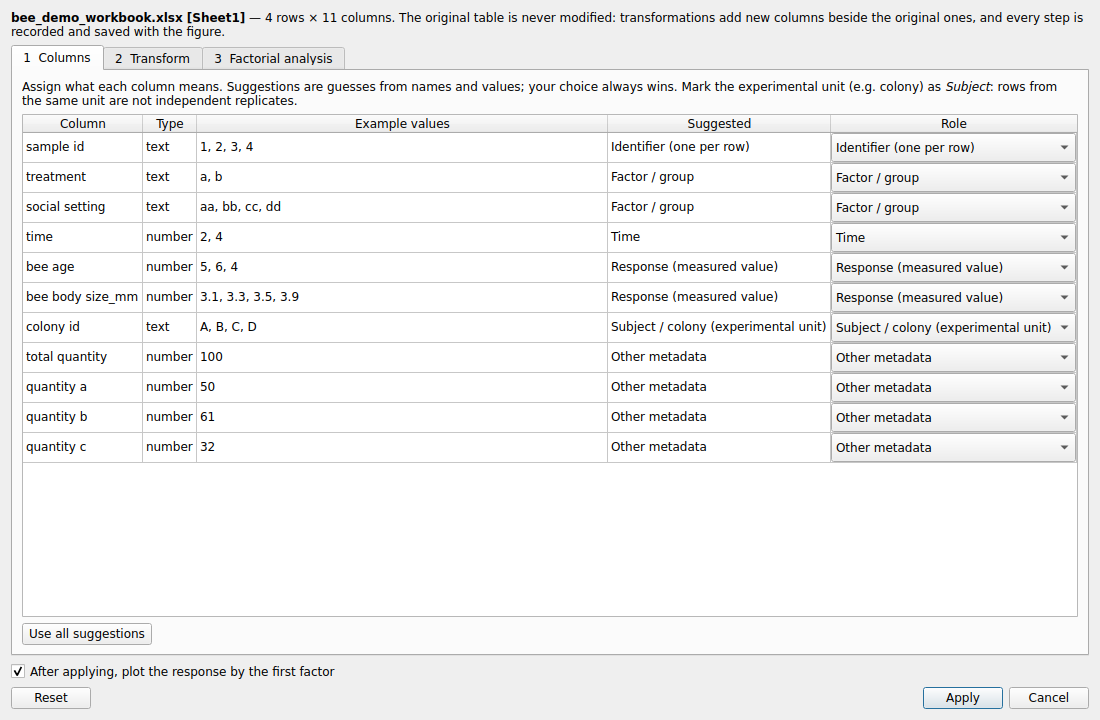
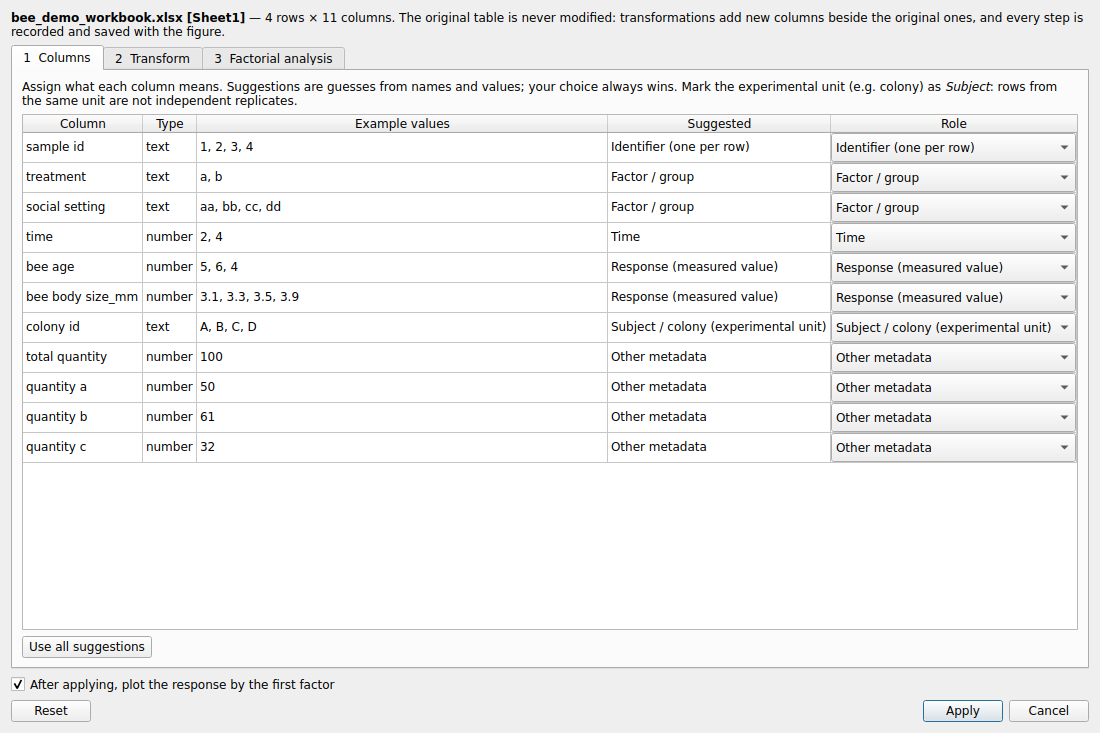
Show the model coefficient table beside the factorial ANOVA
R's summary(lm(...)) under sum-to-zero coding - estimate, SE, t, P, 95 %
CI, residual df - for the same model the ANOVA table reports. Desktop:
Prepare table > Factorial analysis > Coefficients tab with its own CSV
export; browser: under the ANOVA table with a download.

Coefficients get readable names ("treatment = control", "bee body
size_mm (slope)", "treatment = control x time (day) = 2") and a tooltip
saying what each means; the last level of each factor has no row (minus
the sum of the others), which the table states. model_coefficients now
also runs the subject/independence check, like factorial_anova.

The readable names map one-to-one onto R's contr.sum coefficients
(treatment1, ...): estimates agree within 1e-9 relative on all 13
estimable validation designs (test_readable_coefficient_labels_name_the_
same_coefficients_as_r). Non-estimable designs leave the table empty.
Dialog layout: covariate list no longer collapses; CI split into two
columns.

diff --git a/apps/desktop_app/table_workflow.py b/apps/desktop_app/table_workflow.py
@@ -46,7 +46,7 @@ from PySide6.QtWidgets import (
     QWidget,
 )
 
-from make_my_figure_core.statistics.factorial import check_design, factorial_anova
+from make_my_figure_core.statistics.factorial import check_design, factorial_anova, model_coefficients
 from make_my_figure_core.statistics.models import StatsError
 from make_my_figure_core.tabular import (
     METHODS,
@@ -72,7 +72,7 @@ class TableWorkflowDialog(QDialog):
     def __init__(self, controller, data, parent=None):
         super().__init__(parent)
         self.setWindowTitle("Prepare table — roles, transformations, factorial analysis")
-        self.resize(980, 720)
+        self.resize(1040, 820)
         self.controller = controller
         self.raw = controller.raw_of(data)
         self.rawdf: pd.DataFrame = self.raw.info.dataframe
@@ -322,7 +322,8 @@ class TableWorkflowDialog(QDialog):
         self.an_response = QComboBox()
         self.an_factors = [QComboBox() for _ in range(3)]
         self.an_covariates = QListWidget()
-        self.an_covariates.setMaximumHeight(90)
+        self.an_covariates.setMinimumHeight(64)
+        self.an_covariates.setMaximumHeight(96)
         self.an_subject = QComboBox()
         self.an_inter = QComboBox()
         self.an_inter.addItem("Full factorial (all interactions)", "full")
@@ -341,12 +342,15 @@ class TableWorkflowDialog(QDialog):
         row = QHBoxLayout()
         self.btn_check = QPushButton("Check design")
         self.btn_run = QPushButton("Run ANOVA")
-        self.btn_export_anova = QPushButton("Export results (CSV)…")
+        self.btn_export_anova = QPushButton("Export ANOVA table (CSV)…")
         self.btn_export_anova.setEnabled(False)
+        self.btn_export_coef = QPushButton("Export coefficients (CSV)…")
+        self.btn_export_coef.setEnabled(False)
+        self.btn_export_coef.clicked.connect(self._export_coefficients)
         self.btn_check.clicked.connect(self._check)
         self.btn_run.clicked.connect(self._run)
         self.btn_export_anova.clicked.connect(self._export_anova)
-        for b in (self.btn_check, self.btn_run, self.btn_export_anova):
+        for b in (self.btn_check, self.btn_run, self.btn_export_anova, self.btn_export_coef):
             row.addWidget(b)
         row.addStretch(1)
         lay.addLayout(row)
@@ -359,7 +363,29 @@ class TableWorkflowDialog(QDialog):
                                                  "Residual df"])
         self.an_table.setEditTriggers(QAbstractItemView.NoEditTriggers)
         self.an_table.horizontalHeader().setSectionResizeMode(QHeaderView.Stretch)
-        lay.addWidget(self.an_table, 2)
+        # Coefficients: R's summary(lm) under contr.sum, validated against R.
+        coef_page = QWidget()
+        cl = QVBoxLayout(coef_page)
+        cl.setContentsMargins(0, 0, 0, 0)
+        self.coef_note = QLabel(
+            "Sum-to-zero coding: each level's coefficient is its deviation from the mean of all "
+            "levels; the last level of each factor has no row (it is minus the sum of the others). "
+            "A covariate's coefficient is its slope. 95 % confidence intervals.")
+        self.coef_note.setWordWrap(True)
+        self.coef_note.setStyleSheet("color:#555;")
+        cl.addWidget(self.coef_note)
+        self.coef_table = QTableWidget(0, 8)
+        self.coef_table.setHorizontalHeaderLabels(["Coefficient", "Estimate", "Std. error", "t", "P",
+                                                   "95 % CI low", "95 % CI high", "Residual df"])
+        self.coef_table.setEditTriggers(QAbstractItemView.NoEditTriggers)
+        self.coef_table.horizontalHeader().setSectionResizeMode(QHeaderView.Stretch)
+        self.coef_table.horizontalHeader().setSectionResizeMode(0, QHeaderView.ResizeToContents)
+        cl.addWidget(self.coef_table, 1)
+        self.result_tabs = QTabWidget()
+        self.result_tabs.addTab(self.an_table, "ANOVA table")
+        self.result_tabs.addTab(coef_page, "Coefficients")
+        lay.addWidget(self.result_tabs, 2)
+        self.coef_df = None
         self._fill_analysis_from_roles()
         return w
 
@@ -448,7 +474,10 @@ class TableWorkflowDialog(QDialog):
     def _run(self):
         rep = self._check()
         self.an_table.setRowCount(0)
+        self.coef_table.setRowCount(0)
         self.btn_export_anova.setEnabled(False)
+        self.btn_export_coef.setEnabled(False)
+        self.coef_df = None
         if not rep.estimable:
             return
         a = self._design_args()
@@ -472,6 +501,24 @@ class TableWorkflowDialog(QDialog):
         self.an_report.appendPlainText(f"\n{res[0].test_name} on {res[0].n_total} observations. "
                                        "Partial η² = SS_term / (SS_term + SS_residual).")
         self.btn_export_anova.setEnabled(True)
+        try:
+            coef = model_coefficients(self._analysis_frame(), a["response"], a["factors"],
+                                      covariates=a["covariates"], subject=a["subject"],
+                                      interactions=a["interactions"])
+        except StatsError as exc:
+            self.an_report.appendPlainText(f"\nCoefficients not available: {exc}")
+            return
+        self.coef_df = coef.assign(model=res[0].extra["formula"], n=res[0].n_total)
+        self.coef_table.setRowCount(len(coef))
+        for i, r in coef.iterrows():
+            vals = [r["label"], f"{r['estimate']:.6g}", f"{r['std_error']:.4g}", f"{r['t']:.4g}",
+                    f"{r['p_value']:.3g}", f"{r['ci_low']:.4g}", f"{r['ci_high']:.4g}", f"{r['residual_df']:g}"]
+            for j, v in enumerate(vals):
+                item = QTableWidgetItem(v)
+                if j == 0:
+                    item.setToolTip(r["meaning"])
+                self.coef_table.setItem(i, j, item)
+        self.btn_export_coef.setEnabled(True)
 
     def _export_anova(self):
         if self.anova_table is None:
@@ -479,6 +526,13 @@ class TableWorkflowDialog(QDialog):
         path, _ = QFileDialog.getSaveFileName(self, "Export ANOVA table", "anova.csv", "CSV (*.csv)")
         if path:
             self.anova_table.to_csv(path, index=False)
+
+    def _export_coefficients(self):
+        if self.coef_df is None:
+            return
+        path, _ = QFileDialog.getSaveFileName(self, "Export coefficients", "coefficients.csv", "CSV (*.csv)")
+        if path:
+            self.coef_df.to_csv(path, index=False)
 
     # ------------------------------------------------------------- dialog
     def _on_tab(self, index):

diff --git a/make_my_figure_core/statistics/factorial.py b/make_my_figure_core/statistics/factorial.py
@@ -27,7 +27,7 @@ from __future__ import annotations
 
 import itertools
 from dataclasses import asdict, dataclass, field
-from typing import Any, Dict, List, Optional, Sequence
+from typing import Any, Dict, List, Optional, Sequence, Tuple
 
 import numpy as np
 import pandas as pd
@@ -322,18 +322,52 @@ def factorial_anova(df: pd.DataFrame, response: str, factors: Sequence[str], *,
     return results
 
 
+def _coefficient_label(term: str, fmap: Dict[str, str], cmap: Dict[str, str]) -> Tuple[str, str]:
+    """``("treatment = control × time = 2", meaning)`` for a patsy term name."""
+    if term == "Intercept":
+        return "Intercept", ("mean of the cell means (factors); with covariates, at covariate = 0"
+                             if cmap else "mean of the cell means")
+    inv = {v: k for k, v in {**fmap, **cmap}.items()}
+    parts, is_covariate = [], False
+    for piece in term.split(":"):
+        if piece.startswith("C("):
+            inner = piece[2:].split(",")[0].strip()
+            level = piece.split("[S.", 1)[1].rstrip("]") if "[S." in piece else "?"
+            parts.append(f"{inv.get(inner, inner)} = {level}")
+        else:
+            parts.append(inv.get(piece, piece))
+            is_covariate = True
+    label = " × ".join(parts)
+    if is_covariate and len(parts) == 1:
+        return f"{label} (slope)", "change in the response per unit of the covariate"
+    if len(parts) == 1:
+        return label, "deviation of this level from the mean of all levels (sum-to-zero)"
+    return label, "interaction deviation for this combination of levels (sum-to-zero)"
+
+
 def model_coefficients(df: pd.DataFrame, response: str, factors: Sequence[str], *,
-                       covariates: Sequence[str] = (), interactions: str = "full",
-                       alpha: float = 0.05) -> pd.DataFrame:
-    """Coefficient table of the sum-to-zero OLS fit (estimate, SE, t, P, CI)."""
-    rep = check_design(df, response, factors, covariates=covariates, interactions=interactions)
+                       covariates: Sequence[str] = (), subject: Optional[str] = None,
+                       interactions: str = "full", alpha: float = 0.05) -> pd.DataFrame:
+    """Coefficient table of the sum-to-zero OLS fit - R's ``summary(lm)`` under ``contr.sum``.
+
+    Columns: ``label`` (readable, e.g. ``treatment = control``), ``estimate``,
+    ``std_error``, ``t``, ``p_value``, ``ci_low``/``ci_high`` (``1 - alpha``),
+    ``residual_df``, ``meaning`` and ``term`` (the model's own name). With
+    sum-to-zero coding each factor's last level has no row: its deviation is minus
+    the sum of the others. Refuses, like :func:`factorial_anova`, a design that is
+    not estimable.
+    """
+    rep = check_design(df, response, factors, covariates=covariates, subject=subject,
+                       interactions=interactions)
     if not rep.estimable:
         raise StatsError(rep.explanation())
-    work = _prepare(df, response, list(factors), list(covariates), None, DesignReport(
-        response, list(factors), list(covariates), None, interactions))
+    work = _prepare(df, response, list(factors), list(covariates), subject, DesignReport(
+        response, list(factors), list(covariates), subject, interactions))
     model, fmap, cmap, _ = _fit(work, response, list(factors), list(covariates), interactions)
     ci = model.conf_int(alpha)
-    return pd.DataFrame({"term": model.params.index, "estimate": model.params.values,
+    labels = [_coefficient_label(str(t), fmap, cmap) for t in model.params.index]
+    return pd.DataFrame({"label": [lab for lab, _ in labels], "estimate": model.params.values,
                          "std_error": model.bse.values, "t": model.tvalues.values,
                          "p_value": model.pvalues.values, "ci_low": ci[0].values,
-                         "ci_high": ci[1].values})
+                         "ci_high": ci[1].values, "residual_df": float(model.df_resid),
+                         "meaning": [m for _, m in labels], "term": model.params.index})

diff --git a/tests/test_table_workflow_end_to_end.py b/tests/test_table_workflow_end_to_end.py
@@ -22,6 +22,7 @@ import pytest
 matplotlib.use("Agg")
 os.environ.setdefault("QT_QPA_PLATFORM", "offscreen")
 try:
+    from PySide6.QtCore import Qt
     from PySide6.QtWidgets import QApplication, QDialog
 
     from apps.desktop_app import table_workflow
@@ -264,5 +265,35 @@ def test_every_invalid_row_in_the_preview_is_marked(app, tmp_path):
     dlg.tf_method.setCurrentIndex(dlg.tf_method.findData("log10"))
     marked = sum(1 for i in range(dlg.preview_table.rowCount()) if dlg.preview_table.item(i, 1).text() == "invalid")
     assert marked == 30          # rows past the 20th used to show "—"
+    dlg.close()
+    win.close()
+
+
+def test_coefficient_table_in_the_dialog(app):
+    from make_my_figure_core.statistics.factorial import model_coefficients
+
+    sim = ROOT / "tutorial" / "general_tabular_data" / "data" / "simulated_bee_factorial.csv"
+    win = MainWindow()
+    win.load_path(str(sim))
+    dlg = table_workflow.TableWorkflowDialog(win.controller, win.data, win)
+    dlg.an_response.setCurrentText("quantity per bee")
+    for i, f in enumerate(("treatment", "time (day)", "(none)")):
+        dlg.an_factors[i].setCurrentText(f)
+    for i in range(dlg.an_covariates.count()):
+        it = dlg.an_covariates.item(i)
+        it.setCheckState(Qt.Checked if it.text() == "bee body size_mm" else Qt.Unchecked)
+    dlg.an_subject.setCurrentText("colony id")
+    dlg._run()
+    ref = model_coefficients(pd.read_csv(sim), "quantity per bee", ["treatment", "time (day)"],
+                             covariates=["bee body size_mm"], subject="colony id")
+    assert dlg.coef_table.rowCount() == len(ref) == 5
+    assert [dlg.coef_table.item(i, 0).text() for i in range(5)] == ref["label"].tolist()
+    assert dlg.coef_table.item(4, 0).text() == "bee body size_mm (slope)"
+    assert float(dlg.coef_table.item(1, 1).text()) == pytest.approx(ref["estimate"][1], rel=1e-5)
+    assert dlg.btn_export_coef.isEnabled() and dlg.coef_df is not None
+    # a design that cannot be estimated leaves the table empty
+    dlg.an_factors[1].setCurrentText("colony id")
+    dlg._run()
+    assert dlg.coef_table.rowCount() == 0 and not dlg.btn_export_coef.isEnabled()
     dlg.close()
     win.close()

diff --git a/apps/streamlit_app/table_tools.py b/apps/streamlit_app/table_tools.py
@@ -15,7 +15,7 @@ import pandas as pd
 import streamlit as st
 
 from make_my_figure_core.io.loaders import table_info_from_dataframe
-from make_my_figure_core.statistics.factorial import check_design, factorial_anova
+from make_my_figure_core.statistics.factorial import check_design, factorial_anova, model_coefficients
 from make_my_figure_core.statistics.models import StatsError
 from make_my_figure_core.tabular import (
     METHODS,
@@ -138,10 +138,19 @@ def render_table_tools(table_info, table_name: str) -> Tuple[Any, str, Optional[
                     try:
                         res = factorial_anova(frame, response, factors, covariates=covs, subject=subj,
                                               interactions=inter, ss_type=int(ss))
+                        st.markdown("**ANOVA table**")
                         st.dataframe(pd.DataFrame([{
                             "term": r.group_a, "df": r.df, "sum_sq": r.extra["sum_sq"], "F": r.statistic,
                             "P": r.p_value, "partial eta²": r.effect_size, "residual df": r.df2}
                             for r in res]), use_container_width=True)
+                        coef = model_coefficients(frame, response, factors, covariates=covs, subject=subj,
+                                                  interactions=inter)
+                        st.markdown("**Coefficients** (sum-to-zero coding: each level's deviation from the "
+                                    "mean of all levels; a factor's last level is minus the sum of the others; "
+                                    "covariates are slopes; 95 % CI)")
+                        st.dataframe(coef.drop(columns=["term"]), use_container_width=True)
+                        st.download_button("Download coefficients (CSV)", coef.to_csv(index=False).encode("utf-8"),
+                                           file_name="coefficients.csv", mime="text/csv")
                     except StatsError as exc:
                         st.error(str(exc))
     return table_info, table_name, record, raw

diff --git a/tests/test_factorial_anova_matches_r.py b/tests/test_factorial_anova_matches_r.py
@@ -157,3 +157,31 @@ def test_two_way_anova_refuses_the_confounded_bee_design():
     bee = pd.read_excel(FX.parent / "bee_demo_workbook.xlsx")
     with pytest.raises(StatsError, match="completely confounded"):
         anova.two_way_anova(bee, "bee body size_mm", "treatment", "time")
+
+
+@pytest.mark.parametrize("case_id", ESTIMABLE)
+def test_readable_coefficient_labels_name_the_same_coefficients_as_r(case_id):
+    # "treatment = control" must be R's "treatment1" (level 1 of contr.sum), and so on.
+    row, df = _case(case_id)
+    factors, covs = _split(row.factors), _split(row.covariates)
+    ours = model_coefficients(df, row.response, factors, covariates=covs, interactions=row.interactions)
+    used = df.dropna(subset=[row.response, *factors, *covs])
+    levels = {f: sorted(used[f].astype(str).unique()) for f in factors}
+    ref = R_COEF[R_COEF.case_id == case_id].set_index("r_name")
+
+    def to_r(label):
+        if label == "Intercept":
+            return "(Intercept)"
+        out = []
+        for part in label.replace(" (slope)", "").split(" × "):
+            if " = " in part:
+                f, lev = part.split(" = ", 1)
+                out.append(f"{f}{levels[f].index(lev) + 1}")
+            else:
+                out.append(part)
+        return ":".join(out)
+
+    for _, o in ours.iterrows():
+        r = ref.loc[to_r(o.label)]
+        assert math.isclose(o.estimate, r.estimate, rel_tol=REL, abs_tol=1e-12), (o.label, o.estimate, r.estimate)
+        assert o.residual_df == R_DESIGN.loc[case_id].residual_df

diff --git a/tests/test_streamlit_table_tools_and_axis_scale.py b/tests/test_streamlit_table_tools_and_axis_scale.py
@@ -79,3 +79,17 @@ def test_design_check_explains_a_non_estimable_design():
     at.run()
     assert not at.exception
     assert any("estimable" in t.value or "cannot be estimated" in t.value for t in at.text)
+
+
+def test_coefficient_table_is_shown_for_an_estimable_design():
+    at = _app()
+    factors = _by_label(at.multiselect, "Factors (up to 3)")
+    factors.set_value(["group"])
+    at.run()
+    _by_label(at.selectbox, "Response").set_value("value")
+    at.run()
+    _by_label(at.button, "Check design and run").click()
+    at.run()
+    assert not at.exception
+    assert any("Coefficients" in m.value for m in at.markdown)
+    assert "Download coefficients (CSV)" in [b.label for b in at.get("download_button")]

diff --git a/tutorial/general_tabular_data/make_screenshots.py b/tutorial/general_tabular_data/make_screenshots.py
@@ -114,7 +114,7 @@ def main():
 
     # 8. a replicated three-way design that IS estimable
     dlg = apply_dialog(win, lambda d: d.tabs.setCurrentIndex(0))
-    dlg.resize(1100, 760)
+    dlg.resize(1100, 860)
     dlg.tabs.setCurrentIndex(1)
     dlg.tf_column.setCurrentText("quantity per bee")
     dlg.tf_method.setCurrentIndex(dlg.tf_method.findData("log10"))
@@ -126,6 +126,8 @@ def main():
     dlg.an_subject.setCurrentText("colony id")
     dlg._run()
     grab(dlg, "08_three_way_anova_replicated_design.png")
+    dlg.result_tabs.setCurrentIndex(1)
+    grab(dlg, "08b_coefficients.png")
     dlg.close()
 
     # 9. save and reopen a Figure Package of the derived table. Back to a linear

diff --git a/tutorial/general_tabular_data/README.md b/tutorial/general_tabular_data/README.md
@@ -132,7 +132,15 @@ the same model is estimable. Here it is fitted to `log10(quantity per bee)`, wit
 ![Replicated three-way ANOVA](screenshots/08_three_way_anova_replicated_design.png)
 
 Type II sums of squares by default (Type III with sum-to-zero contrasts on
-request), with partial η² for each term. **Export results (CSV)…** saves the table.
+request), with partial η² for each term. **Export ANOVA table (CSV)…** saves it.
+
+The **Coefficients** tab is R's `summary(lm(...))` under sum-to-zero coding:
+estimate, standard error, t, P and 95 % confidence interval for each coefficient.
+Each level's coefficient is its deviation from the mean of all levels. The last
+level of each factor has no row, because it equals minus the sum of the others. A
+covariate's coefficient is its slope. **Export coefficients (CSV)…** saves them.
+
+![Coefficient table](screenshots/08b_coefficients.png)
 If any colony had contributed more than one row, the analysis would be refused:
 repeated measurements need a mixed-effects model, which this app does not fit.
 

diff --git a/docs/STATISTICS_FACTORIAL.md b/docs/STATISTICS_FACTORIAL.md
@@ -100,5 +100,12 @@ relative 1e-7 (absolute 1e-15 below 1e-8); degrees of freedom exactly equal.
 6.5 × 10⁻¹³.** All six non-estimable designs are refused, each where R shows the
 reason. Per-quantity table: `quality_audit/general_tabular_workflow/factorial_statistics_validation.csv`.
 
+The **coefficient table** (desktop: Factorial analysis ▸ Coefficients; browser:
+under the ANOVA table; API: `model_coefficients`) has readable names
+(`treatment = control`, `bee body size_mm (slope)`, `treatment = control × time = 2`)
+and an explanation of each. These names map one-to-one onto R's `contr.sum`
+coefficients (`treatment1`, …), and the estimates agree within the tolerances above
+on all 13 estimable designs.
+
 Not validated here, and therefore not offered: post-hoc comparisons after a factorial
 model, estimated marginal means, mixed models, and sphericity corrections.

diff --git a/CHANGELOG.md b/CHANGELOG.md
@@ -39,6 +39,10 @@ names. See `docs/GENERAL_TABULAR_DATA.md` and `tutorial/general_tabular_data/`.
   4.5.3 on synthetic designs: **509 of 509** quantities agree, worst relative
   difference **6.5 × 10⁻¹³** against a prespecified tolerance of 10⁻⁹
   (`docs/STATISTICS_FACTORIAL.md`). Mixed models are not fitted, and the app says so.
+- **Coefficient table** (R's `summary(lm)` under sum-to-zero coding: estimate, SE,
+  t, P, 95 % CI) beside the ANOVA table, with readable names (`treatment = control`,
+  `body size (slope)`) that map one-to-one onto R's coefficients. CSV export in the
+  desktop and browser apps.
 
 ### Added — logarithmic axes and tick notation (display only)
 

diff --git a/docs/manuals/User_Manual/parts/06_experimental_tables_log_axes_factorial.md b/docs/manuals/User_Manual/parts/06_experimental_tables_log_axes_factorial.md
@@ -57,6 +57,8 @@ subject column; full factorial or main effects; Type II (default) or Type III
 checked first. Complete confounding, empty factor combinations, no residual degrees
 of freedom, a constant response, or repeated rows from one subject are explained,
 and nothing is computed. Validated against base R (509 of 509 quantities agree).
+The **Coefficients** tab gives R's `summary(lm)` under sum-to-zero coding (estimate,
+SE, t, P, 95 % CI) with readable names; each table has its own CSV export.
 
 ![A three-way design that four observations cannot support.](../../assets/screenshots/tabular_04_three_way_design_not_estimable.png)
 
